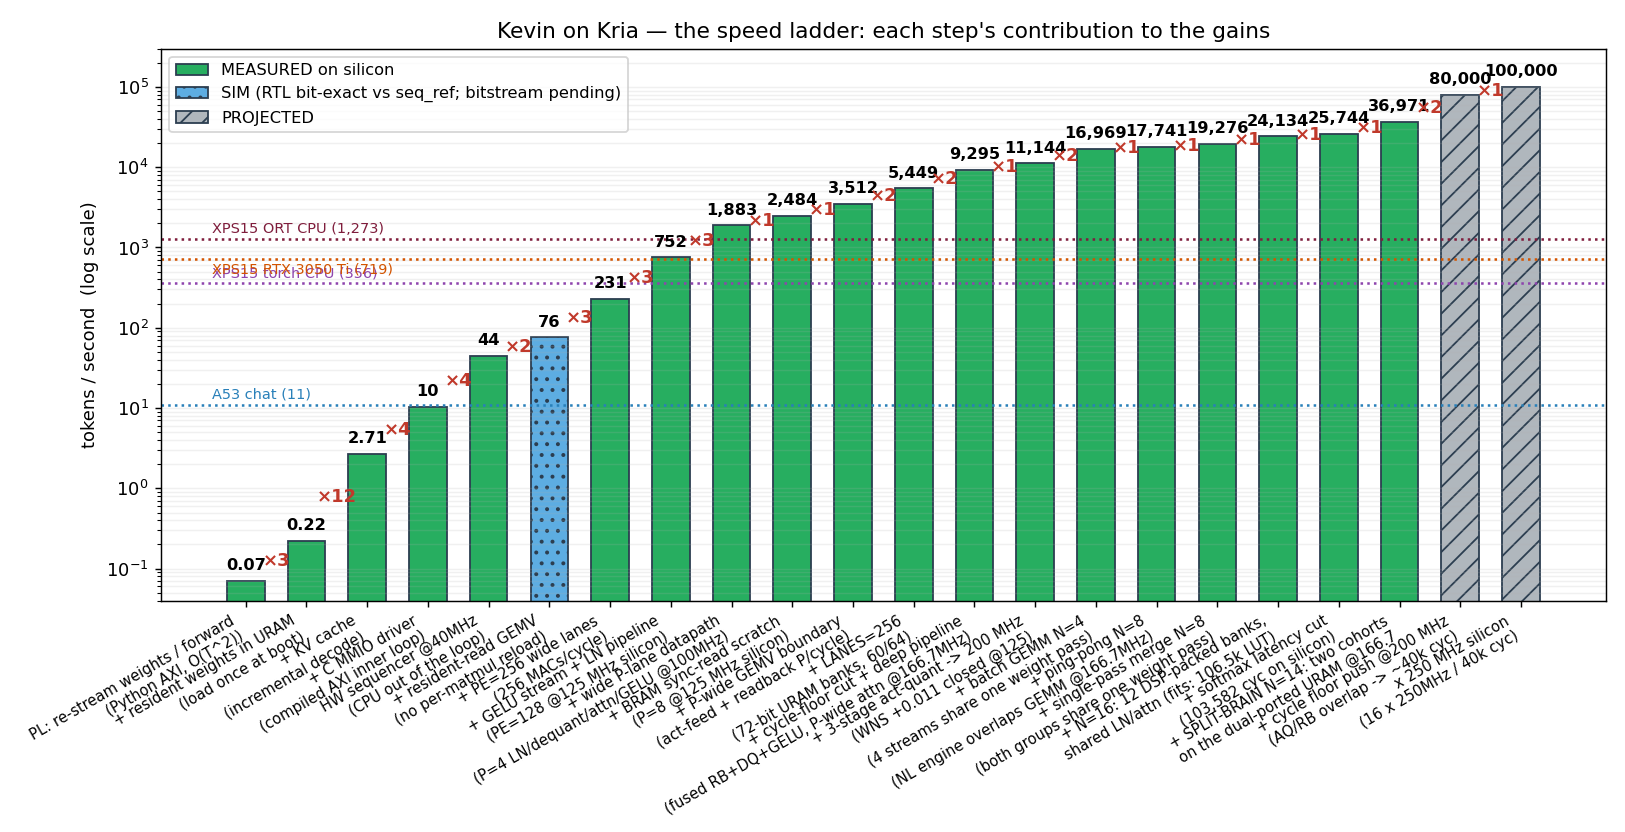
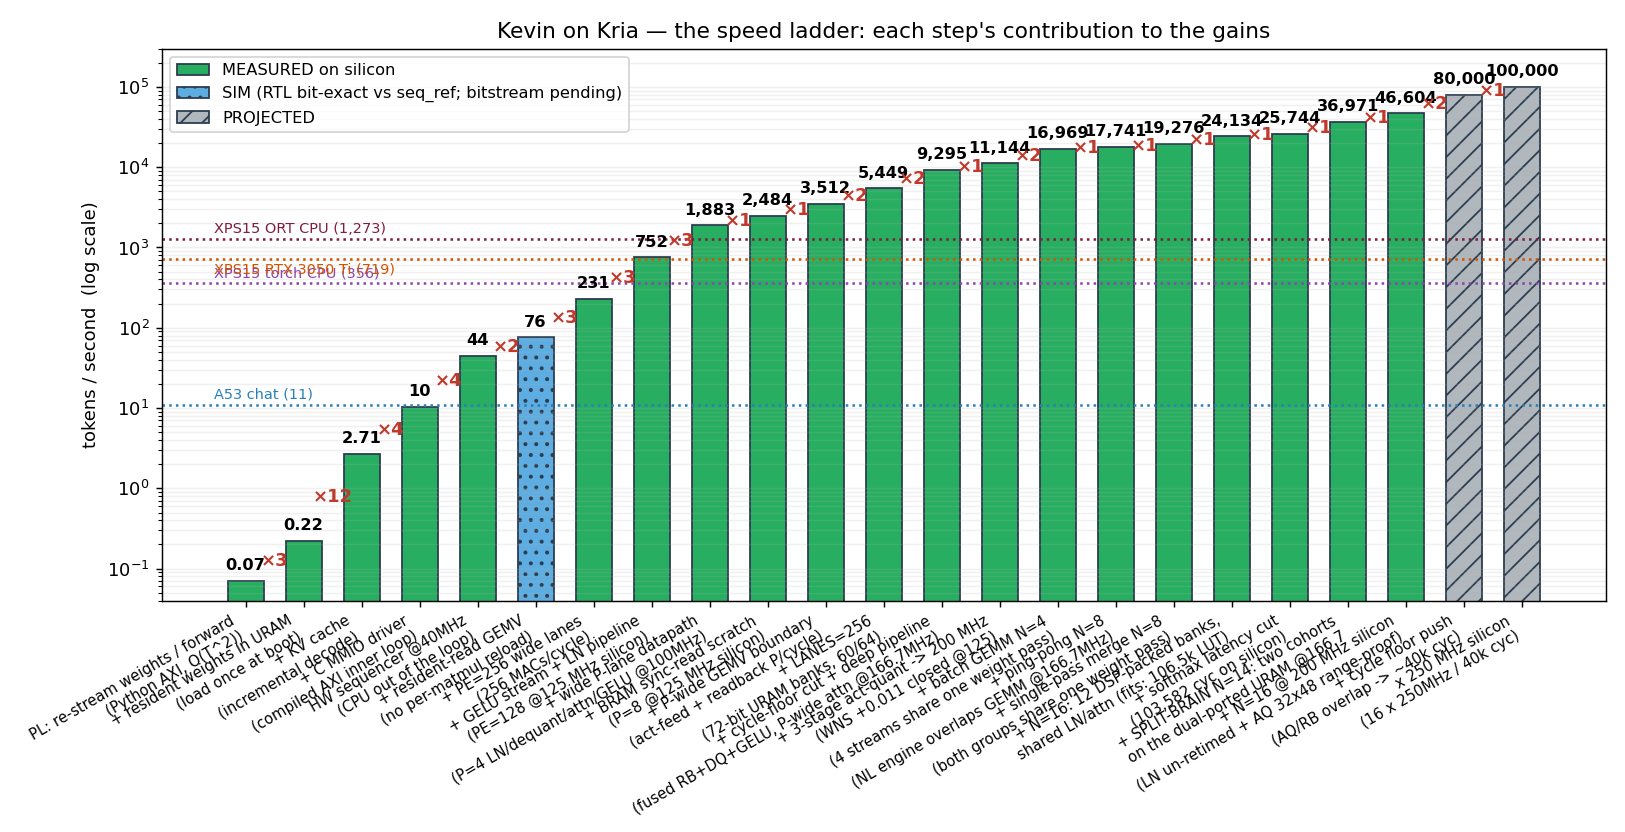
NEW RECORD: N=16 @ 200 MHz — 46,604.4 tok/s MEASURED (16/16, 3/3), first 200-clean build
68,663 cyc on silicon (sim 68,960 - 297 SETTLE, 5th consecutive build),
identical across reps. Sweep: 166.7 -> 38,837.0 / 200 -> 46,604.4 / 250 ->
match=False (softmax div path — lever agent running). Impl WNS -0.616.
+81% in one day (25,744.5 -> 46,604.4). Log SS21, ladder updated.

diff --git a/fabric/progress.py b/fabric/progress.py
@@ -61,8 +61,10 @@ LADDER = [
      "dead wait-states between exp/sum/recip (16/16 bit-exact 3/3; 200 fails)"),
     ("+ SPLIT-BRAIN N=14: two cohorts\non the dual-ported URAM @166.7", 36970.7, "MEASURED",
      "the single weight read port (TDP image + shared LN/attn/dq; 63,113 cyc / 14 tok; 14/14 bit-exact 3/3; 200 fails)"),
-    ("+ cycle floor push @200 MHz\n(AQ/RB overlap -> ~40k cyc)", 80000.0, "PROJECTED",
-     "GE-engine idle: AQ/RB serialization, group gaps, LN timing (the solid case)"),
+    ("+ N=16 @ 200 MHz silicon\n(LN un-retimed + AQ 32x48 range-proof)", 46604.4, "MEASURED",
+     "the LN qsh/output paths + the DSP famine (attn un-evicted; 68,663 cyc / 16 tok; 16/16 bit-exact 3/3; 250 fails)"),
+    ("+ cycle floor push\n(AQ/RB overlap -> ~40k cyc)", 80000.0, "PROJECTED",
+     "GE-engine idle: AQ/RB serialization, group gaps (the solid case)"),
     ("x 250 MHz silicon\n(16 x 250MHz / 40k cyc)", 100000.0, "PROJECTED",
      "the last 25%: a 7ns-target timing campaign on a -2LV part (unproven)"),
 ]
